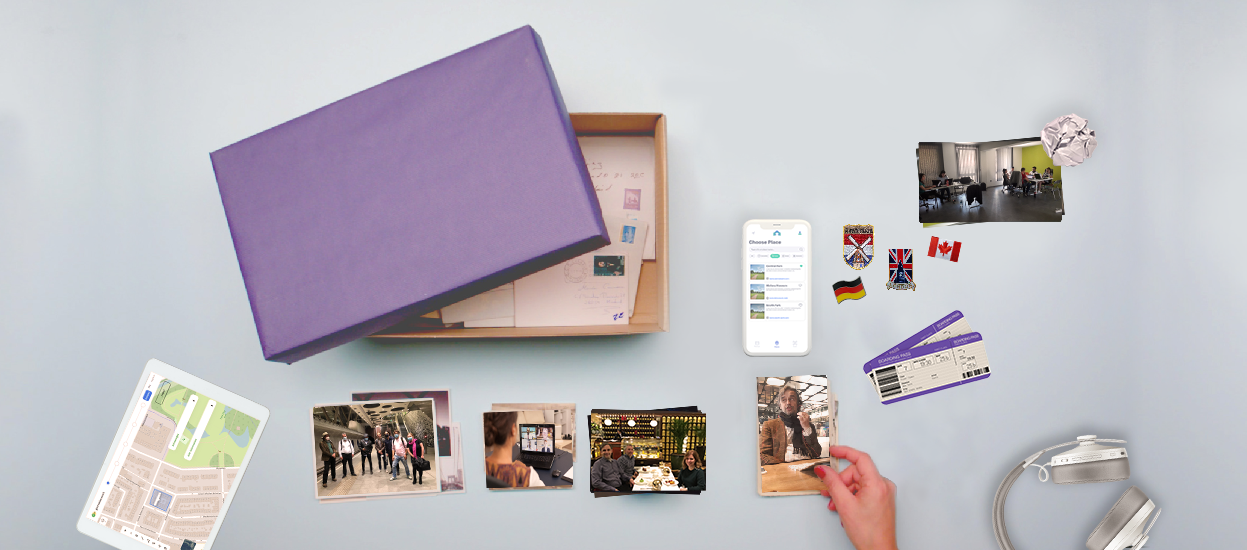
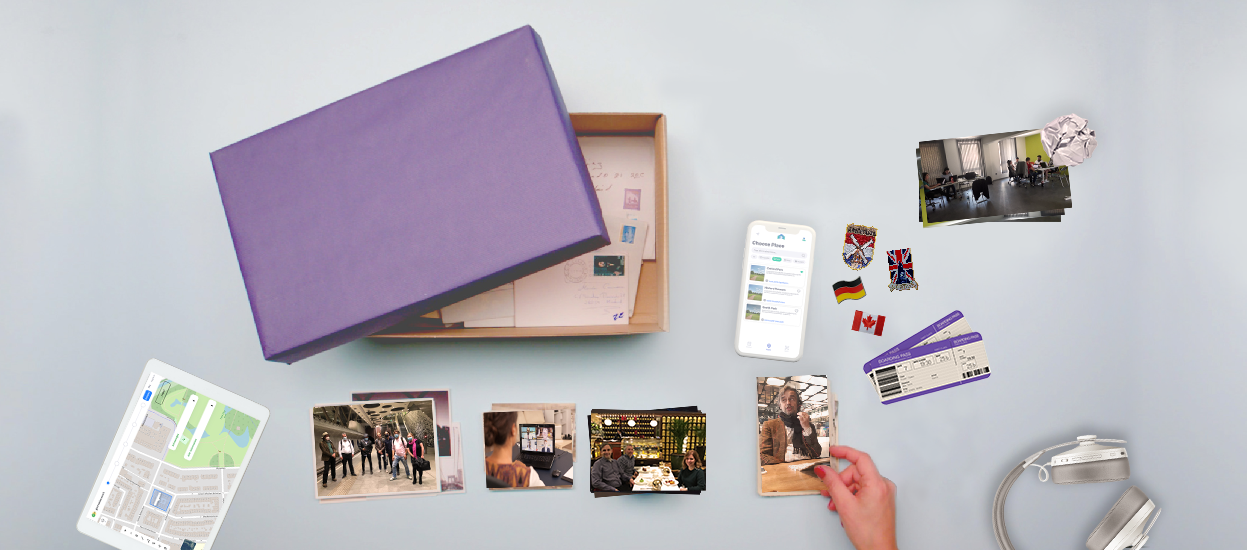
new images for latest work

Changed region(s): [[0.579, 0.3709, 0.7923, 0.6491], [0.7314, 0.2164, 0.8837, 0.4018]]

diff --git a/src/components/LatestWork.vue b/src/components/LatestWork.vue
@@ -192,6 +192,17 @@ export default {
       }
     }
   }
+  .bigsection {
+    .image-container {
+      .card {
+        .card-body {
+          p {
+            margin-top: -30rem;
+          }
+        }
+      }
+    }
+  }
 }
 @media only screen and (max-width: 991.5px) {
   .bigsection {
@@ -201,12 +212,6 @@ export default {
       top: 0px;
       .card {
         border: none;
-        .img-pad {
-          display: block;
-        }
-        img {
-          display: none;
-        }
         .card-body {
           p {
             margin-top: -20rem;
@@ -238,15 +243,9 @@ export default {
       top: 0px;
       .card {
         border: none;
-        .img-pad {
-          display: block;
-        }
-        img {
-          display: none;
-        }
         .card-body {
           p {
-            margin-top: -20rem;
+            margin-top: -45rem;
             color: white;
             font-size: 14px;
             padding-left: 2rem;
@@ -276,12 +275,6 @@ export default {
     .image-container {
       .card {
         border: none;
-        .img-pad {
-          display: none;
-        }
-        img {
-          display: block;
-        }
         .card-body {
           p {
             margin-top: -20rem;
